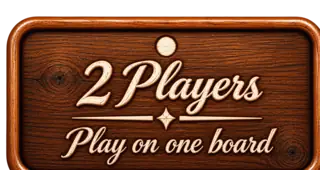
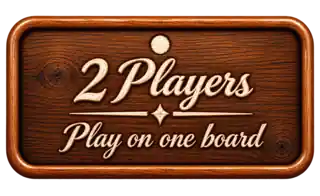
Restore full wood artwork proportions

diff --git a/app/src/main/kotlin/com/mkdev/mkboardgames/ui/ChessMenuView.kt b/app/src/main/kotlin/com/mkdev/mkboardgames/ui/ChessMenuView.kt
@@ -295,8 +295,6 @@ class ChessMenuView(
         val actionWidth = (width - sidePadding * 2f - gap) / 2f
         val actionTop = contentOffset +
             (if (isChessFamily || isMorabaraba) 244f else 164f) * unit
-        val actionHeight = 82f * unit
-
         actions = buildList {
             add(
                 MenuAction(
@@ -346,15 +344,24 @@ class ChessMenuView(
             )
         }
 
-        actions.forEachIndexed { index, action ->
-            if (index < 2) {
-                val left = sidePadding + index * (actionWidth + gap)
-                action.rect = RectF(left, actionTop, left + actionWidth, actionTop + actionHeight)
-            } else {
-                val row = index - 1
-                val top = actionTop + row * (actionHeight + gap)
-                action.rect = RectF(sidePadding, top, width - sidePadding, top + actionHeight)
-            }
+        val firstRowHeight = actions
+            .take(2)
+            .maxOfOrNull { actionHeightFor(it.label, actionWidth) }
+            ?: 82f * unit
+        actions.take(2).forEachIndexed { index, action ->
+            val left = sidePadding + index * (actionWidth + gap)
+            val actionHeight = actionHeightFor(action.label, actionWidth)
+            val top = actionTop + (firstRowHeight - actionHeight) / 2f
+            action.rect = RectF(left, top, left + actionWidth, top + actionHeight)
+        }
+        var nextRowTop = actionTop + firstRowHeight + gap
+        actions.drop(2).forEach { action ->
+            val rowWidth = width - sidePadding * 2f
+            val actionHeight = actionHeightFor(action.label, rowWidth)
+            action.rect = RectF(sidePadding, nextRowTop, width - sidePadding, nextRowTop + actionHeight)
+            nextRowTop = action.rect.bottom + gap
+        }
+        actions.forEach {
             actionScale[action.label] = 1f
         }
         resumeRect.set(
@@ -951,6 +958,18 @@ class ChessMenuView(
         canvas.drawText(action.label, rect.centerX(), drawnTop + 55f * unit, actionLabelPaint)
         actionDetailPaint.color = Color.parseColor("#6A2D1B")
         canvas.drawText(action.detail, rect.centerX(), drawnTop + 72f * unit, actionDetailPaint)
+    }
+
+    private fun actionHeightFor(label: String, actionWidth: Float): Float {
+        val image = when (label) {
+            "vs CPU" -> vsCpuButtonBitmap
+            "2 Players" -> twoPlayersButtonBitmap
+            "How To Play" -> howToPlayButtonBitmap
+            else -> null
+        }
+        return image?.let {
+            actionWidth * it.height.toFloat() / it.width.toFloat()
+        } ?: 82f * unit
     }
 
     private fun loadAssetBitmap(ctx: Context, assetName: String): Bitmap? =

diff --git a/app/src/main/kotlin/com/mkdev/mkboardgames/ui/ModeSelectionView.kt b/app/src/main/kotlin/com/mkdev/mkboardgames/ui/ModeSelectionView.kt
@@ -156,12 +156,15 @@ class ModeSelectionView(context: Context) : View(context) {
         val buttonWidth = originalButtonWidth / 1.5f * 1.1f
         val left = (width - buttonWidth) / 2f
         val buttonHeight = 136f / 3f * 1.1f * unit
+        val normalButtonHeight = playButtonBitmap?.let {
+            buttonWidth * it.height.toFloat() / it.width.toFloat()
+        } ?: buttonHeight
         val gap = 10f * unit
-        val totalHeight = buttonHeight * 3f + gap * 2f
+        val totalHeight = normalButtonHeight + buttonHeight * 2f + gap * 2f
         val firstTop = (height * 0.16f).coerceAtMost(
             (height - totalHeight - 12f * unit).coerceAtLeast(12f * unit),
         )
-        normalRect.set(left, firstTop, left + buttonWidth, firstTop + buttonHeight)
+        normalRect.set(left, firstTop, left + buttonWidth, firstTop + normalButtonHeight)
         irregularRect.set(
             left,
             normalRect.bottom + gap,
